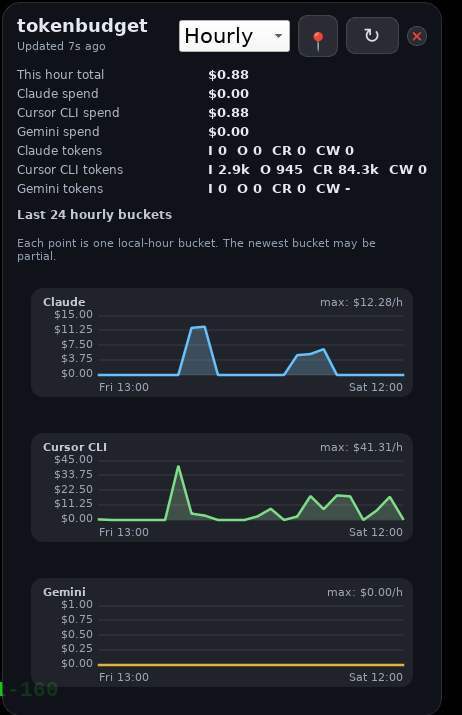
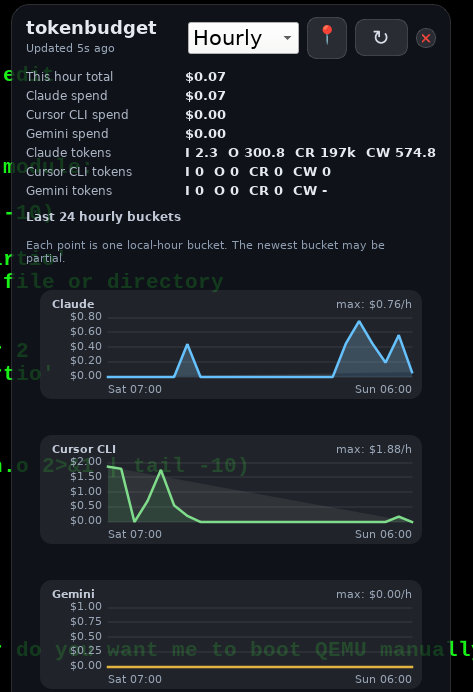
Refresh README copy and screenshot.
Clarify tokenbudget as a local desktop widget for Claude Code, Cursor CLI, and Gemini CLI, and replace the README screenshot with the current UI.

diff --git a/README.md b/README.md
@@ -1,10 +1,12 @@
 # tokenbudget
 
-`tokenbudget` is a desktop GUI for tracking token usage across local AI agents:
+`tokenbudget` is a desktop widget for tracking token usage across local AI agents:
 Claude Code, Cursor CLI, and Gemini CLI.
 
-It gives you one small native widget that shows recent usage, token breakdowns,
-and spend/cost across the tools you already use locally.
+What it does: shows recent usage, token breakdowns, and spend/cost across the local agents.
+
+What it does not do: cloud spend/tracking across systems.
+
 
 ![tokenbudget Qt monitor](desktop/tokenbudget-qt-screenshot.png)
 